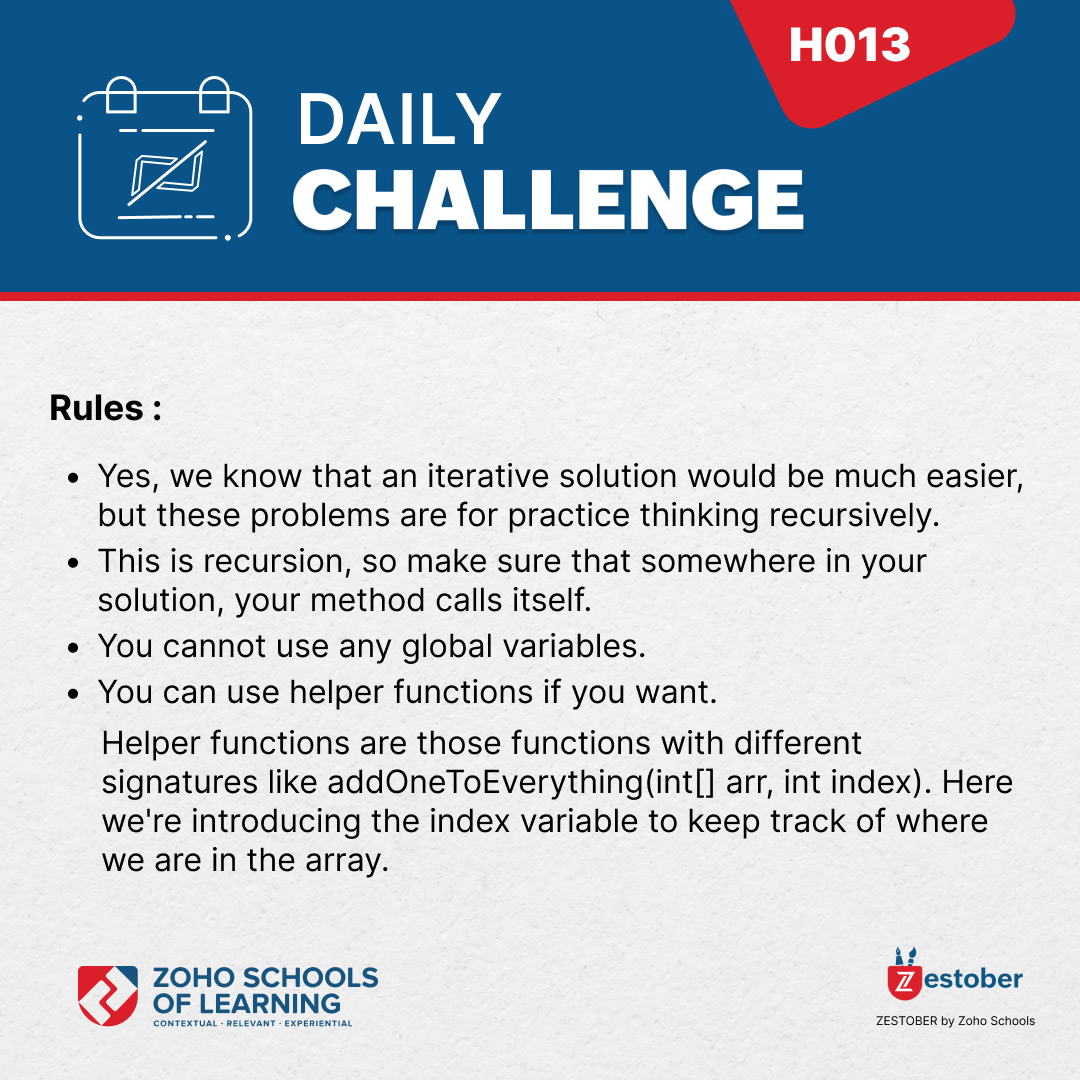
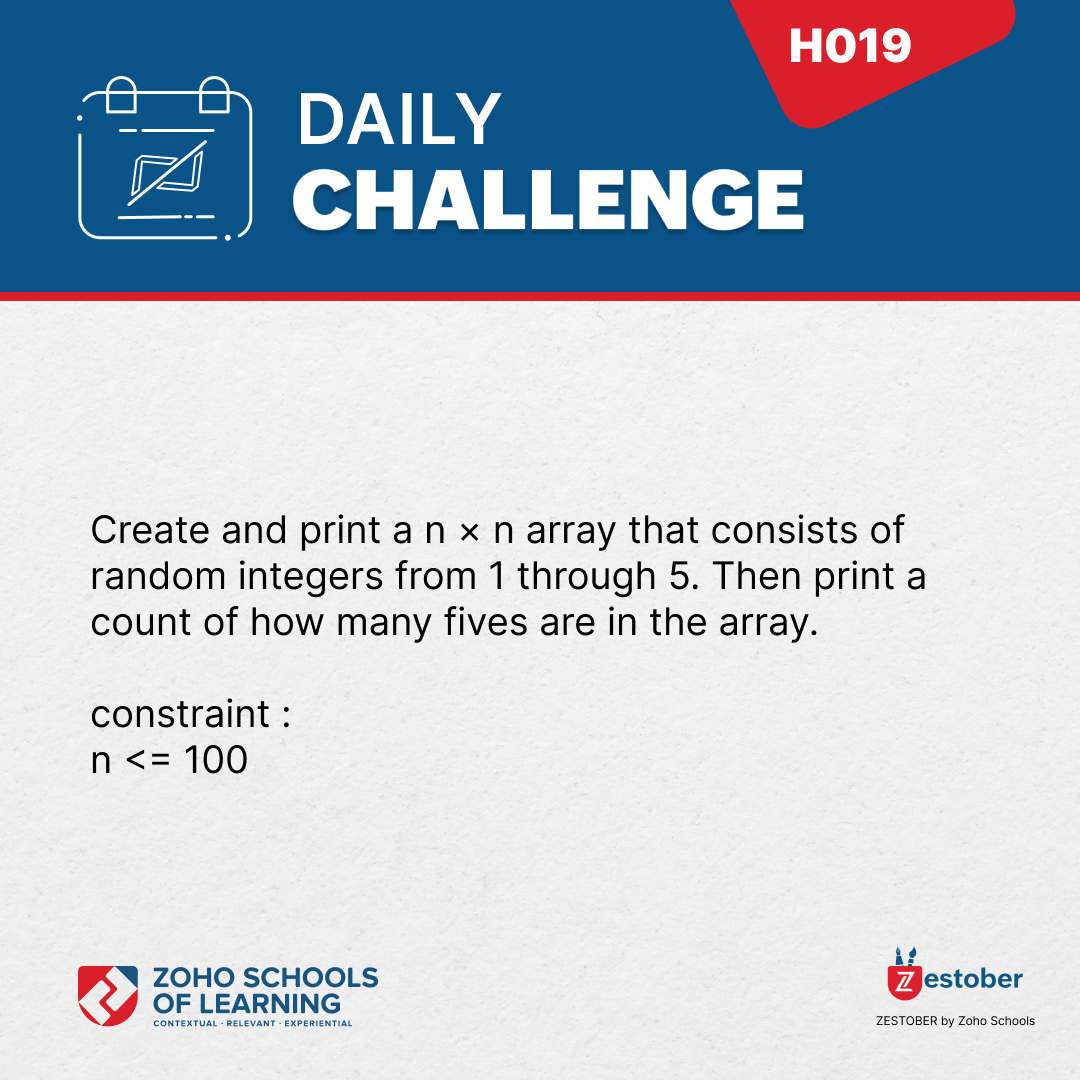
Simple Array Specific Integer Counter

Changed region(s): [[0.0611, 0.4278, 0.9472, 0.825], [0.0306, 0.3667, 0.1528, 0.3972], [0.7639, 0.0306, 0.8556, 0.0611]]

diff --git a/H019.java b/H019.java
@@ -1,0 +1,38 @@
+import java.util.Scanner;
+
+public class H019 {
+    public static void main(String[] args) {
+        int n;
+        Scanner scan = new Scanner(System.in);
+        System.out.println("Enter the Size of Array :");
+        n = scan.nextInt();
+        int[][] arr = new int[n][n];
+        int count = counterArray(arr, n);
+        System.out.println("For the Given array The Number of 5's are " + count);
+        scan.close();
+
+    }
+
+    private static int counterArray(int[][] arr, int n) {
+        int count = 0;
+        int integer = 0;
+        // To Store the random integer 1 through 5
+        for (int i = 0; i < n; i++) {
+            for (int j = 0; j < n; j++) {
+                arr[i][j] = integer < 5 ? ++integer : --integer;
+                //Use Ternary Operator to count the Number 5
+                count = arr[i][j] == 5 ? count += 1 : count;
+            }
+        }
+        // Print the random integer Stored Array:
+        for (int i = 0; i < arr.length; i++) {
+            for (int j = 0; j < arr.length; j++) {
+                System.out.print(arr[i][j] + " ");
+            }
+            System.out.println();
+        }
+
+        return count;
+    }
+
+}
